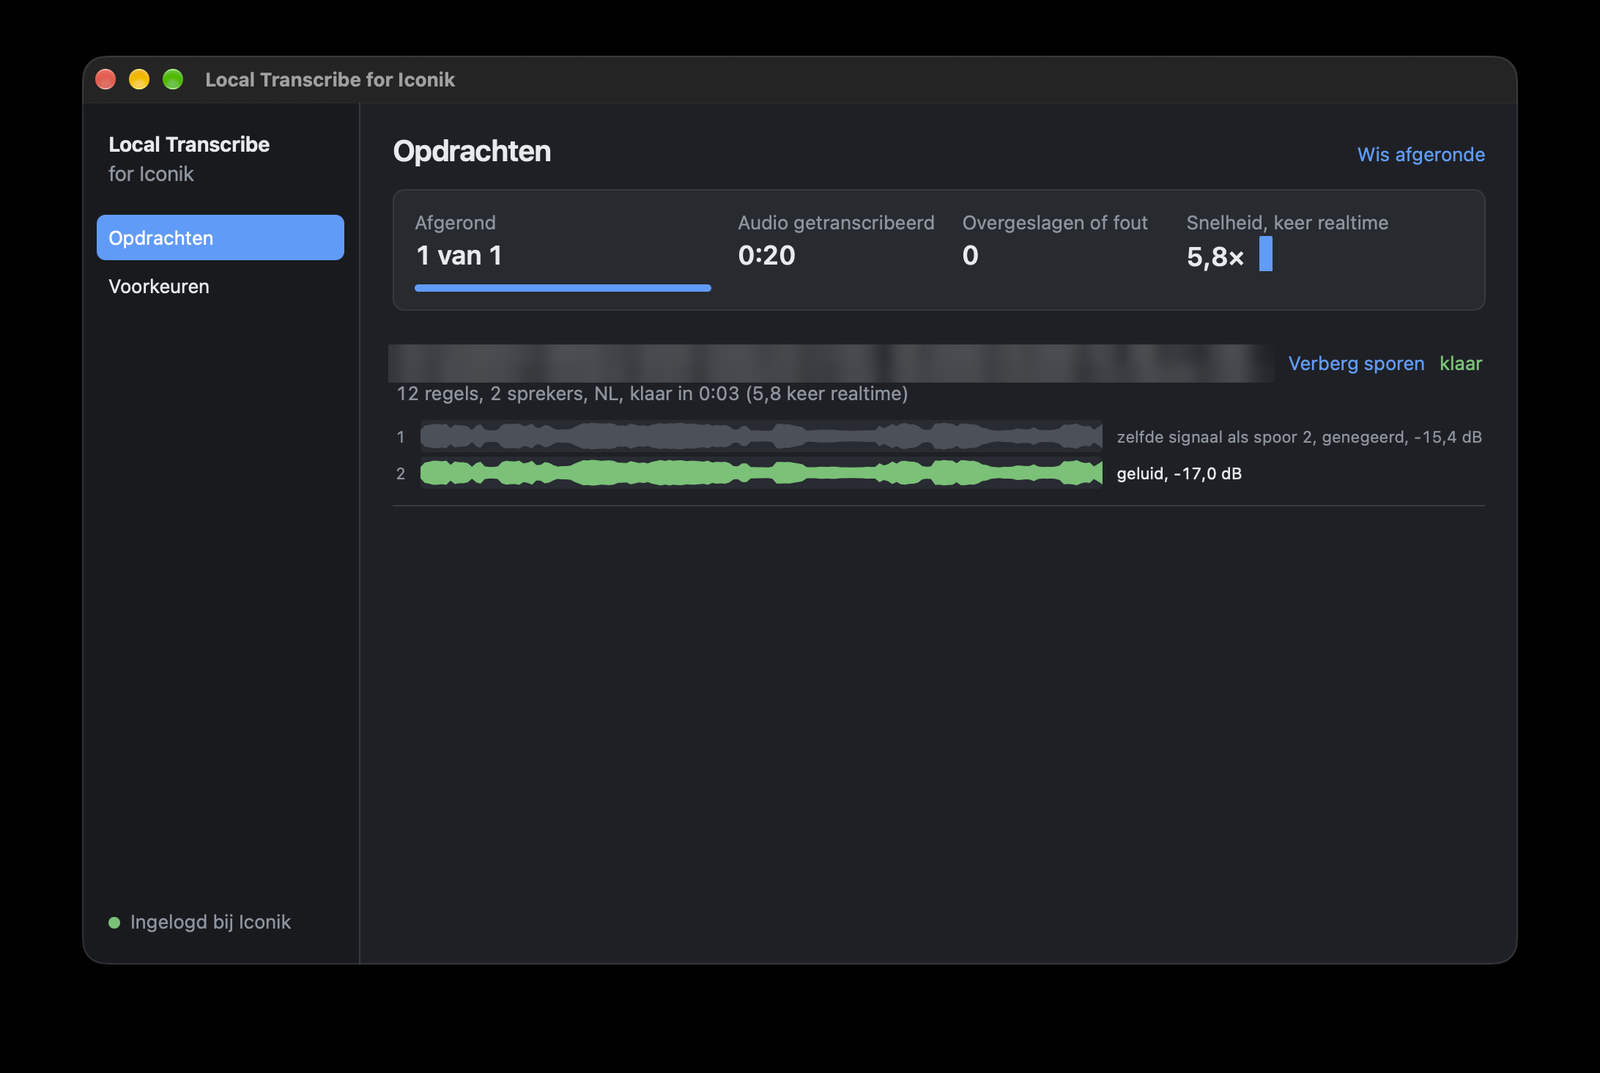
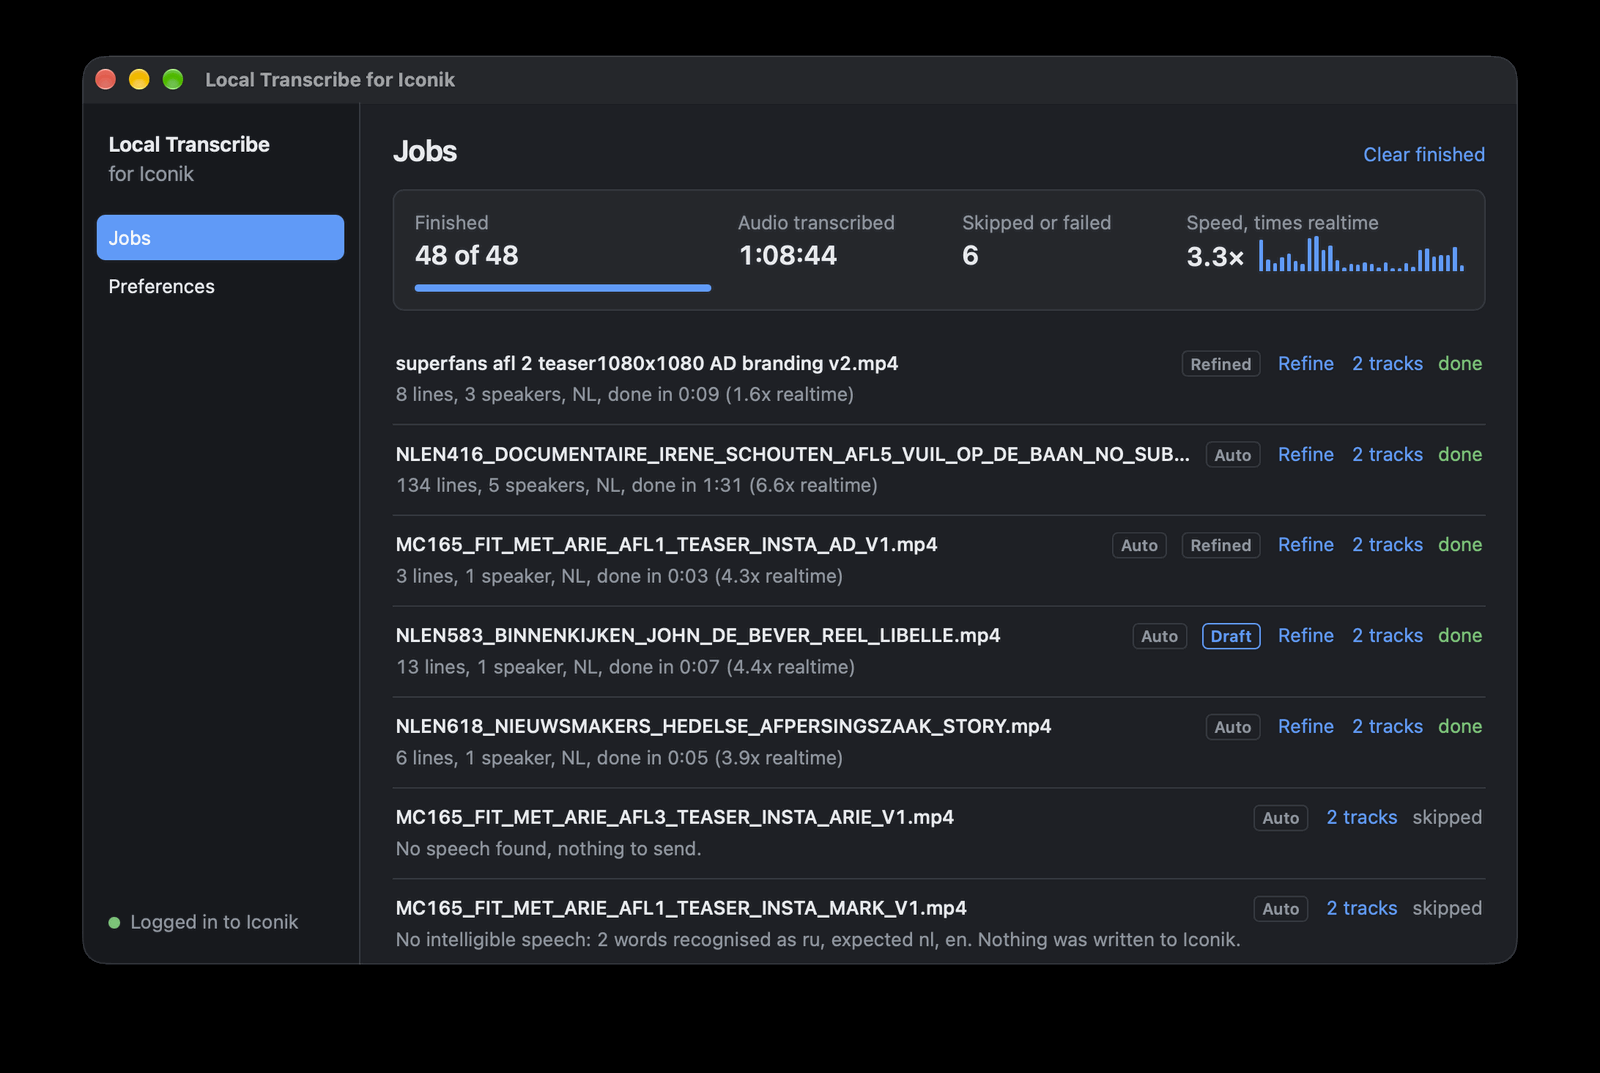
README: current screenshots of the job list and the preferences
Claude-Session: https://claude.ai/code/session_01MS4AxPabTYxEWnaAZXHmJq

diff --git a/README.md b/README.md
@@ -14,7 +14,7 @@
 
 A Mac app that transcribes assets from [Iconik](https://www.iconik.io) on your own machine and writes the result back to Iconik as native transcriptions, with word timing and speaker labels. You start it from Iconik: pick an asset, a collection or a selection and choose **Local Transcribe**. The app reads the file from your mounted storage, transcribes it locally and sends the transcript back. Nothing goes to a cloud transcription service.
 
-![The app window with a finished job and its audio tracks](docs/images/app-jobs.png)
+![The job list: finished jobs with their tags (Auto, Refined, Draft) and the Refine button](docs/images/app-jobs.png)
 
 ## Features
 
@@ -60,6 +60,8 @@ The app checks GitHub Releases every six hours and shows a banner when there is 
 ## Remote jobs
 
 With **Allow remote jobs** (Preferences) a Mac picks up requests made in Iconik, from any location, and processes them in the background, as the account signed in on that Mac. Starting jobs from the Custom Action works as before.
+
+![Preferences: Iconik account, storage, models, remote jobs and auto transcribe, and the originals kept by Refine](docs/images/app-preferences.png)
 
 Iconik is the queue. The app creates the metadata fields `local_transcribe_status` (Requested, In progress, Done, Failed) and `local_transcribe_info`, and a metadata view. Add the fields to a view your team uses and set the status to Requested on an asset, or on a collection through Update Metadata to request everything in it. Labels can be Dutch or English (Preferences, **Language of the fields in Iconik**); stored values are always English.
 
